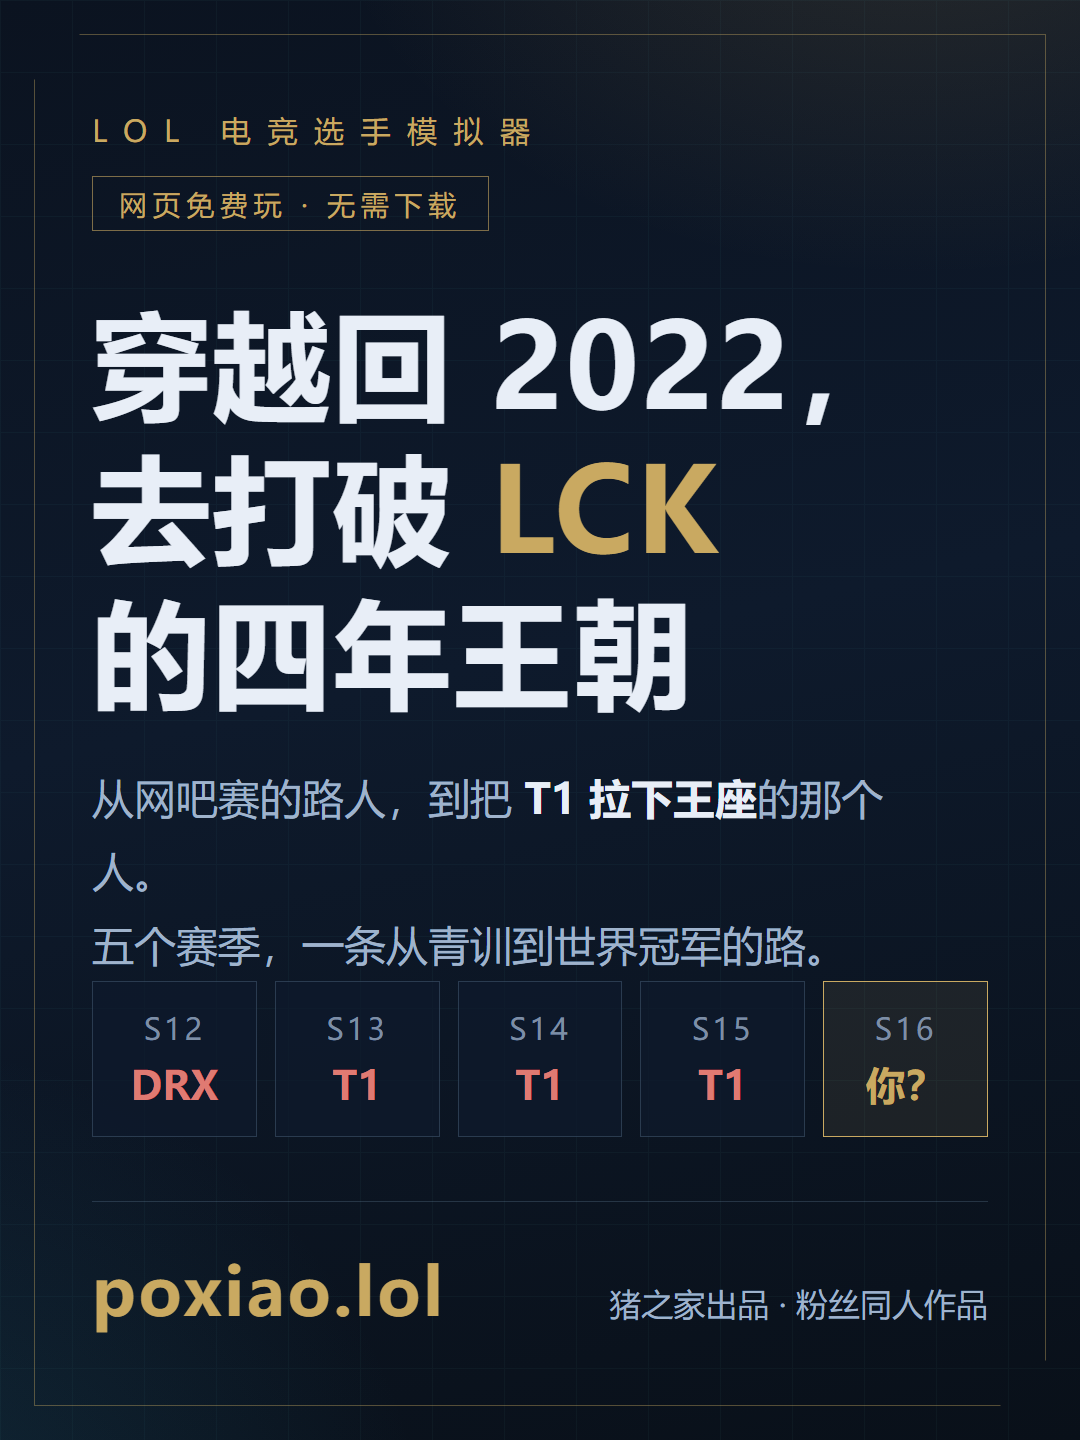
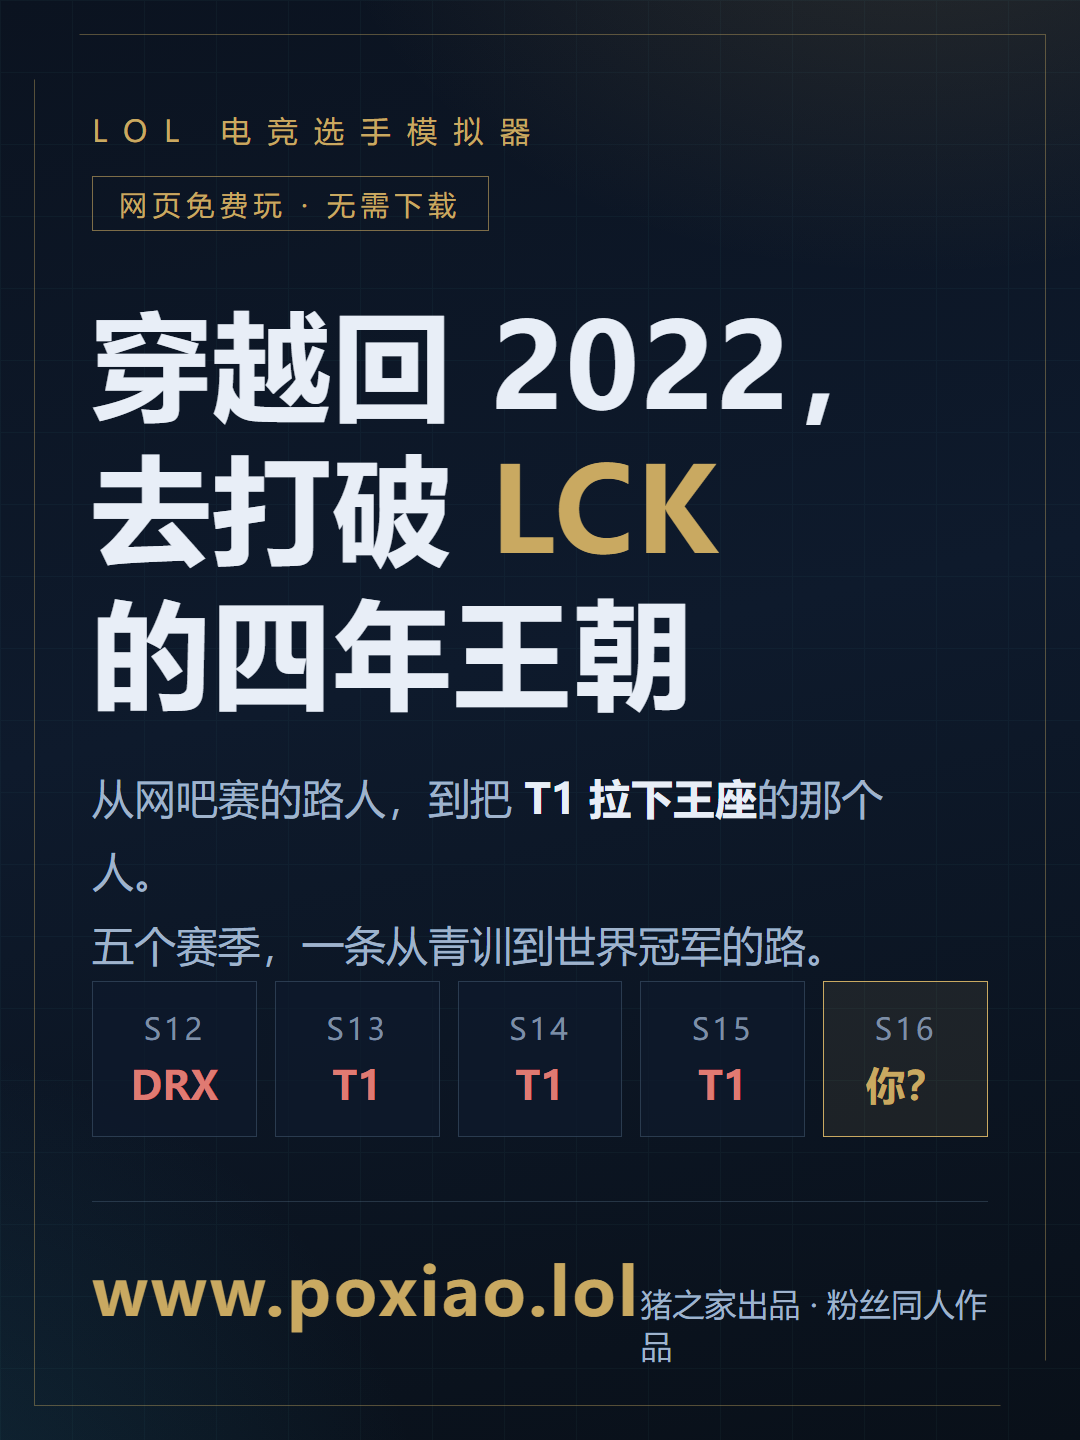
大陆直连打通：对外地址统一 www.poxiao.lol（IP 级封锁绕过）
诊断：裸域名的 Railway 边缘 IP 69.46.46.121 被运营商国际出口
单独拉黑（同段 vctgames.com 的 .27 各网络可开——玩家实测对照）；
给服务加绑 www 主机名重新分配到 69.46.46.79，玩家实测
国内 WiFi/流量免代理可开。零成本解决。

- 游戏页头英文行、四张宣传卡、抖音文案、群公告全部切 www.poxiao.lol
- 裸域名保留（挂代理可用）；若 .79 将来也被拉黑，重绑换前缀再摇
- v20260903j

Changed region(s): [[0.0917, 0.875, 0.9167, 0.9375]]

diff --git a/promo/card2.html b/promo/card2.html
@@ -37,6 +37,6 @@ h1 .g{color:#c9a961}
     <div class="step"><div class="dot"></div><div><div class="st">LPL 首发 · 转会市场</div><div class="sd">数据是唯一会替你说话的东西。<b>强队的合同要自己挣</b></div></div></div>
     <div class="step last"><div class="dot"></div><div><div class="st">世界赛 · 破局者</div><div class="sd">别的赛区照着真实历史走——<b>历史改写的那一笔，得你亲手落</b></div></div></div>
   </div>
-  <div class="foot"><div class="url">poxiao.lol</div><div class="free">手机电脑浏览器直接玩</div></div>
+  <div class="foot"><div class="url">www.poxiao.lol</div><div class="free">手机电脑浏览器直接玩</div></div>
 </div>
 </body></html>

diff --git a/promo/card4.html b/promo/card4.html
@@ -28,7 +28,7 @@ h1 .g{color:#c9a961}
   <div class="eyebrow">至暗时刻之后</div>
   <h1><span class="g">破</span>晓</h1>
   <div class="mean">PO XIAO · LOL</div>
-  <div class="url">poxiao.lol</div>
+  <div class="url">www.poxiao.lol</div>
   <div class="how">浏览器打开就能玩 · <b>手机电脑都行</b><br>免费 · 无需下载 · 自动存档</div>
   <div class="foot">猪之家出品 · 玩家社区共创打磨中<br>粉丝同人作品，与拳头游戏及各俱乐部无关</div>
 </div>

diff --git a/promo/card3.html b/promo/card3.html
@@ -42,6 +42,6 @@ h1 .r{color:#e07a72}
     <div class="ct">2022 真实数据建模</div>
     <div class="ci">四大赛区 + 外卡，两百多名选手按 <b>2022 赛季真实表现</b>定值，<br>连 LDL 二队都是当年的真实名单。</div>
   </div>
-  <div class="foot"><div class="url">poxiao.lol</div><div class="free">免费 · 无需下载</div></div>
+  <div class="foot"><div class="url">www.poxiao.lol</div><div class="free">免费 · 无需下载</div></div>
 </div>
 </body></html>

diff --git a/promo/card1.html b/promo/card1.html
@@ -44,6 +44,6 @@ h1 .g{color:#c9a961}
     <div class="y dark"><div class="s">S15</div><div class="c">T1</div></div>
     <div class="y you"><div class="s">S16</div><div class="c">你？</div></div>
   </div>
-  <div class="foot"><div class="url">poxiao.lol</div><div class="free">猪之家出品 · 粉丝同人作品</div></div>
+  <div class="foot"><div class="url">www.poxiao.lol</div><div class="free">猪之家出品 · 粉丝同人作品</div></div>
 </div>
 </body></html>

diff --git a/demo/header.html b/demo/header.html
@@ -33,7 +33,7 @@
       <div class="title-block">
         <p class="game-kicker">LOL 电竞生涯模拟器</p>
         <h1 class="game-title">破晓</h1>
-        <p class="game-en">poxiao.lol</p>
+        <p class="game-en">www.poxiao.lol</p>
       </div>
     </div>
     <p class="tagline">S12 到 S16，五年。一段有限的职业生涯，去终结那个王朝。</p>
